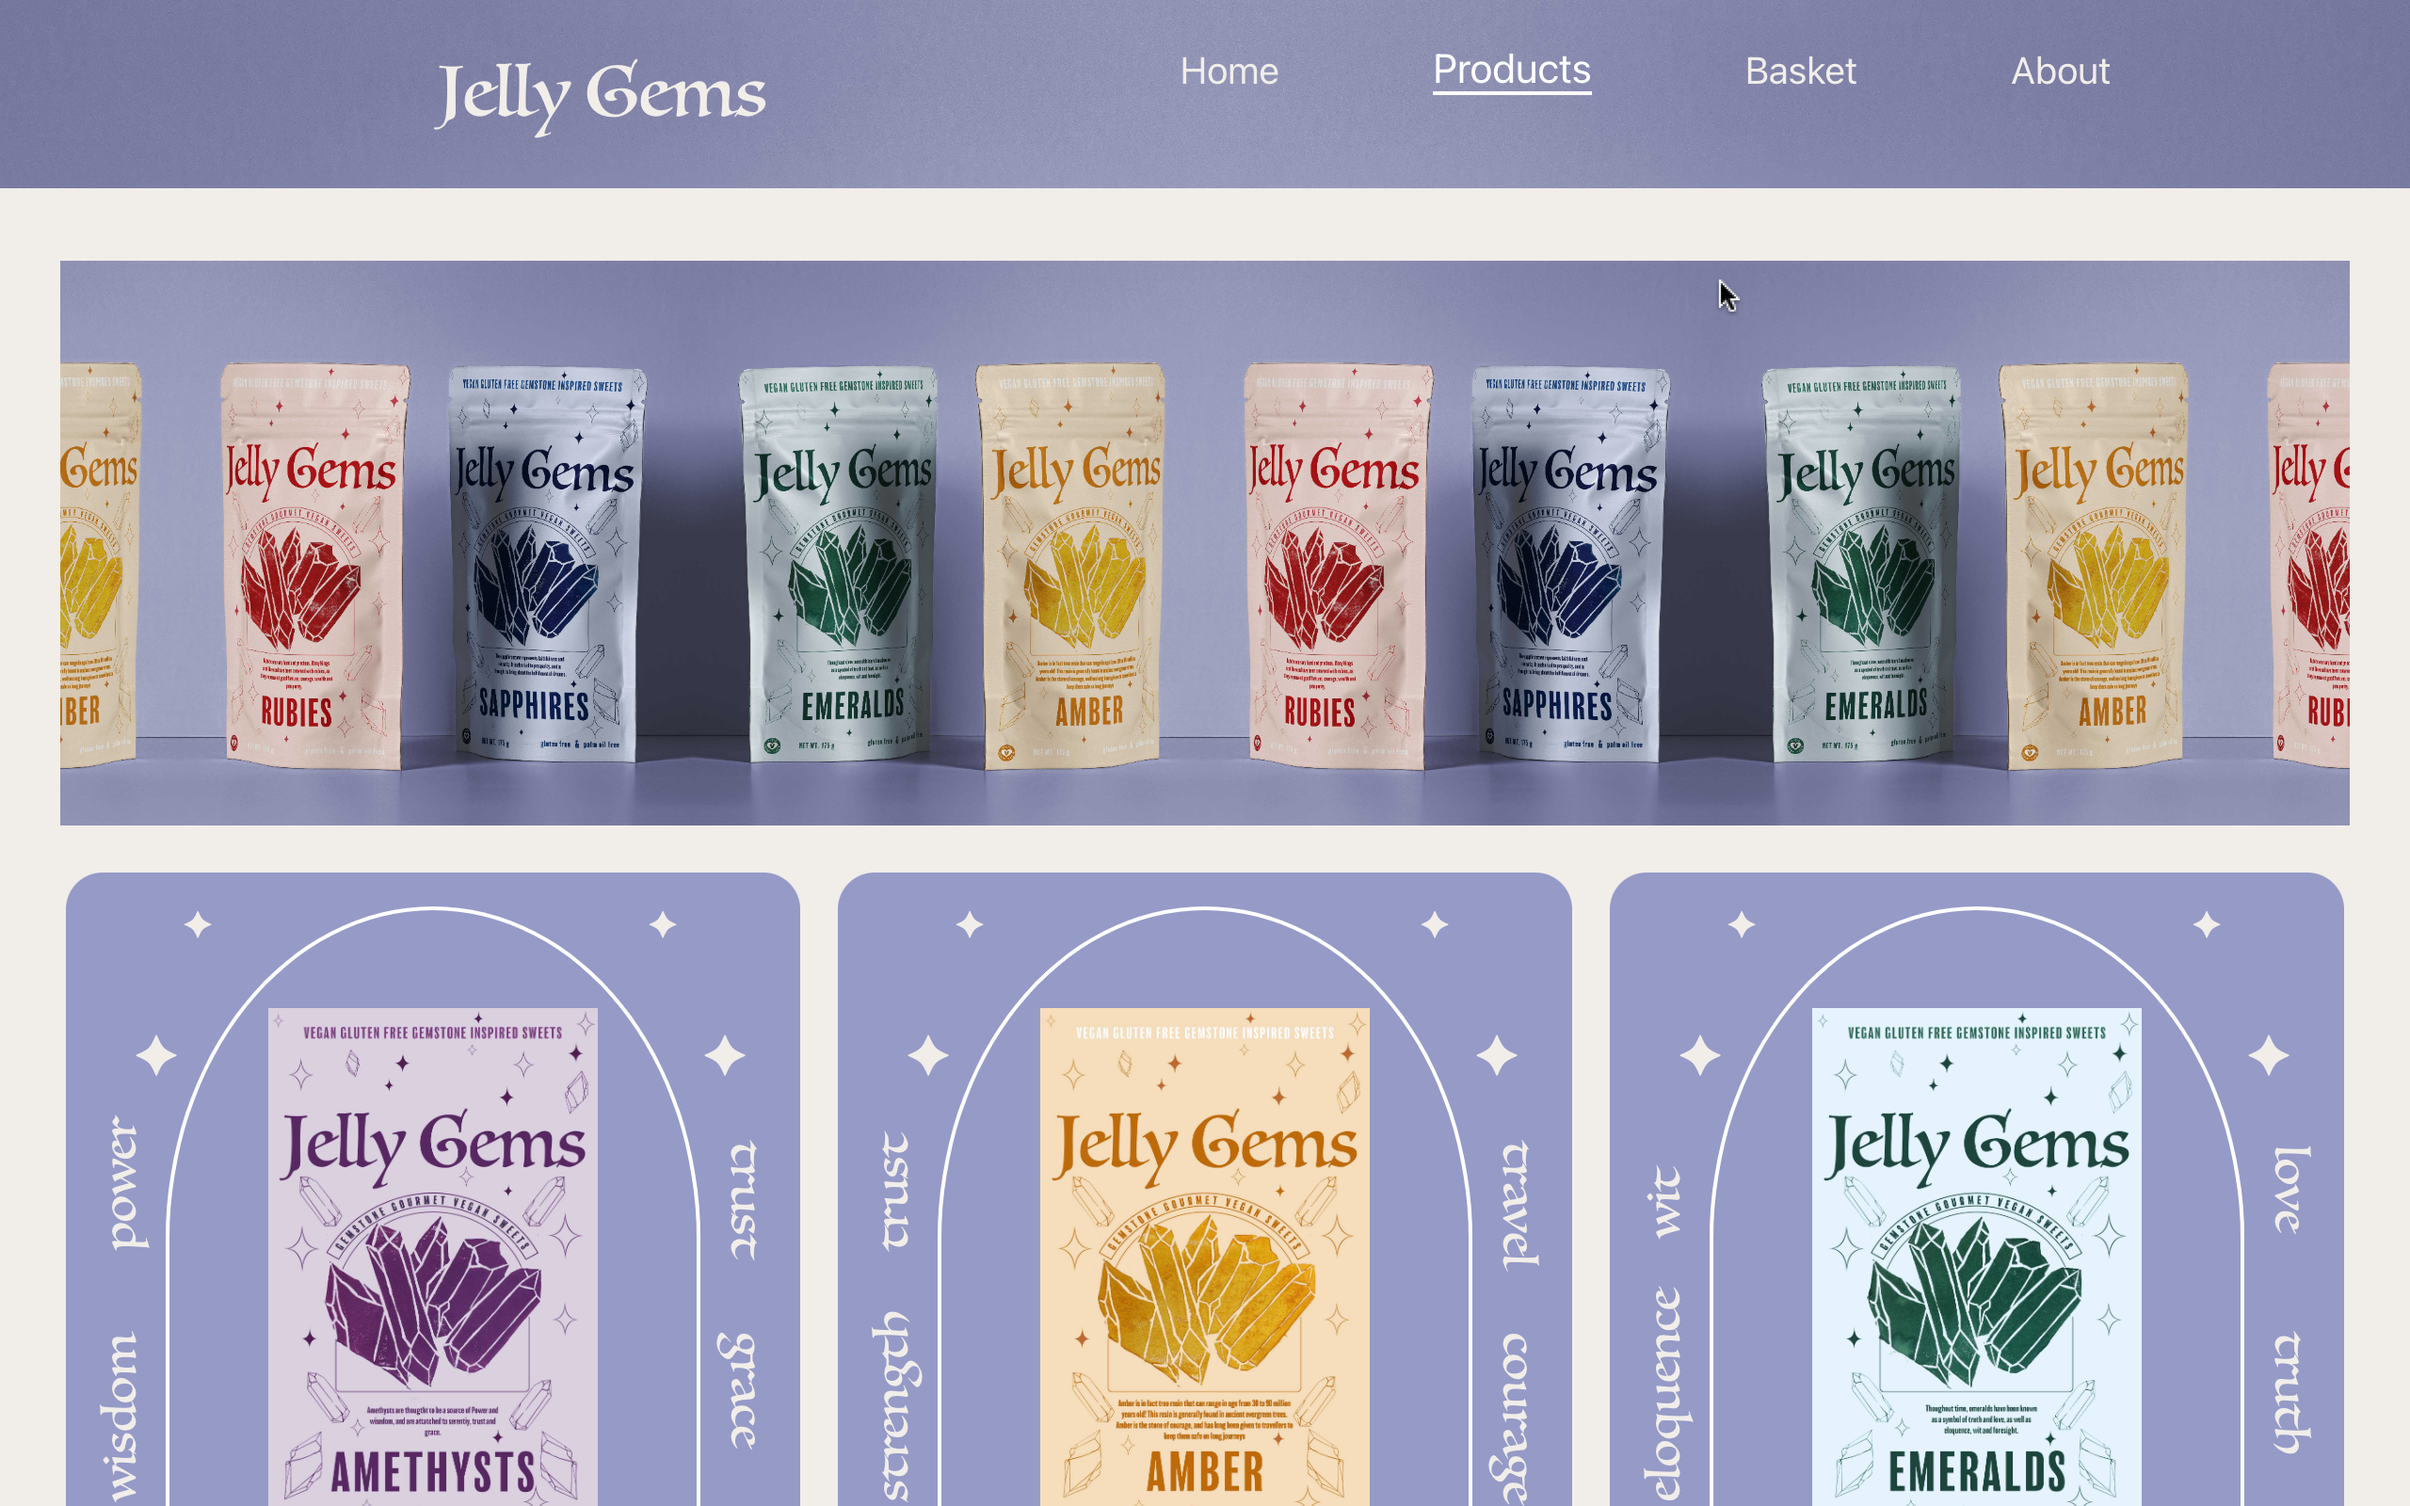
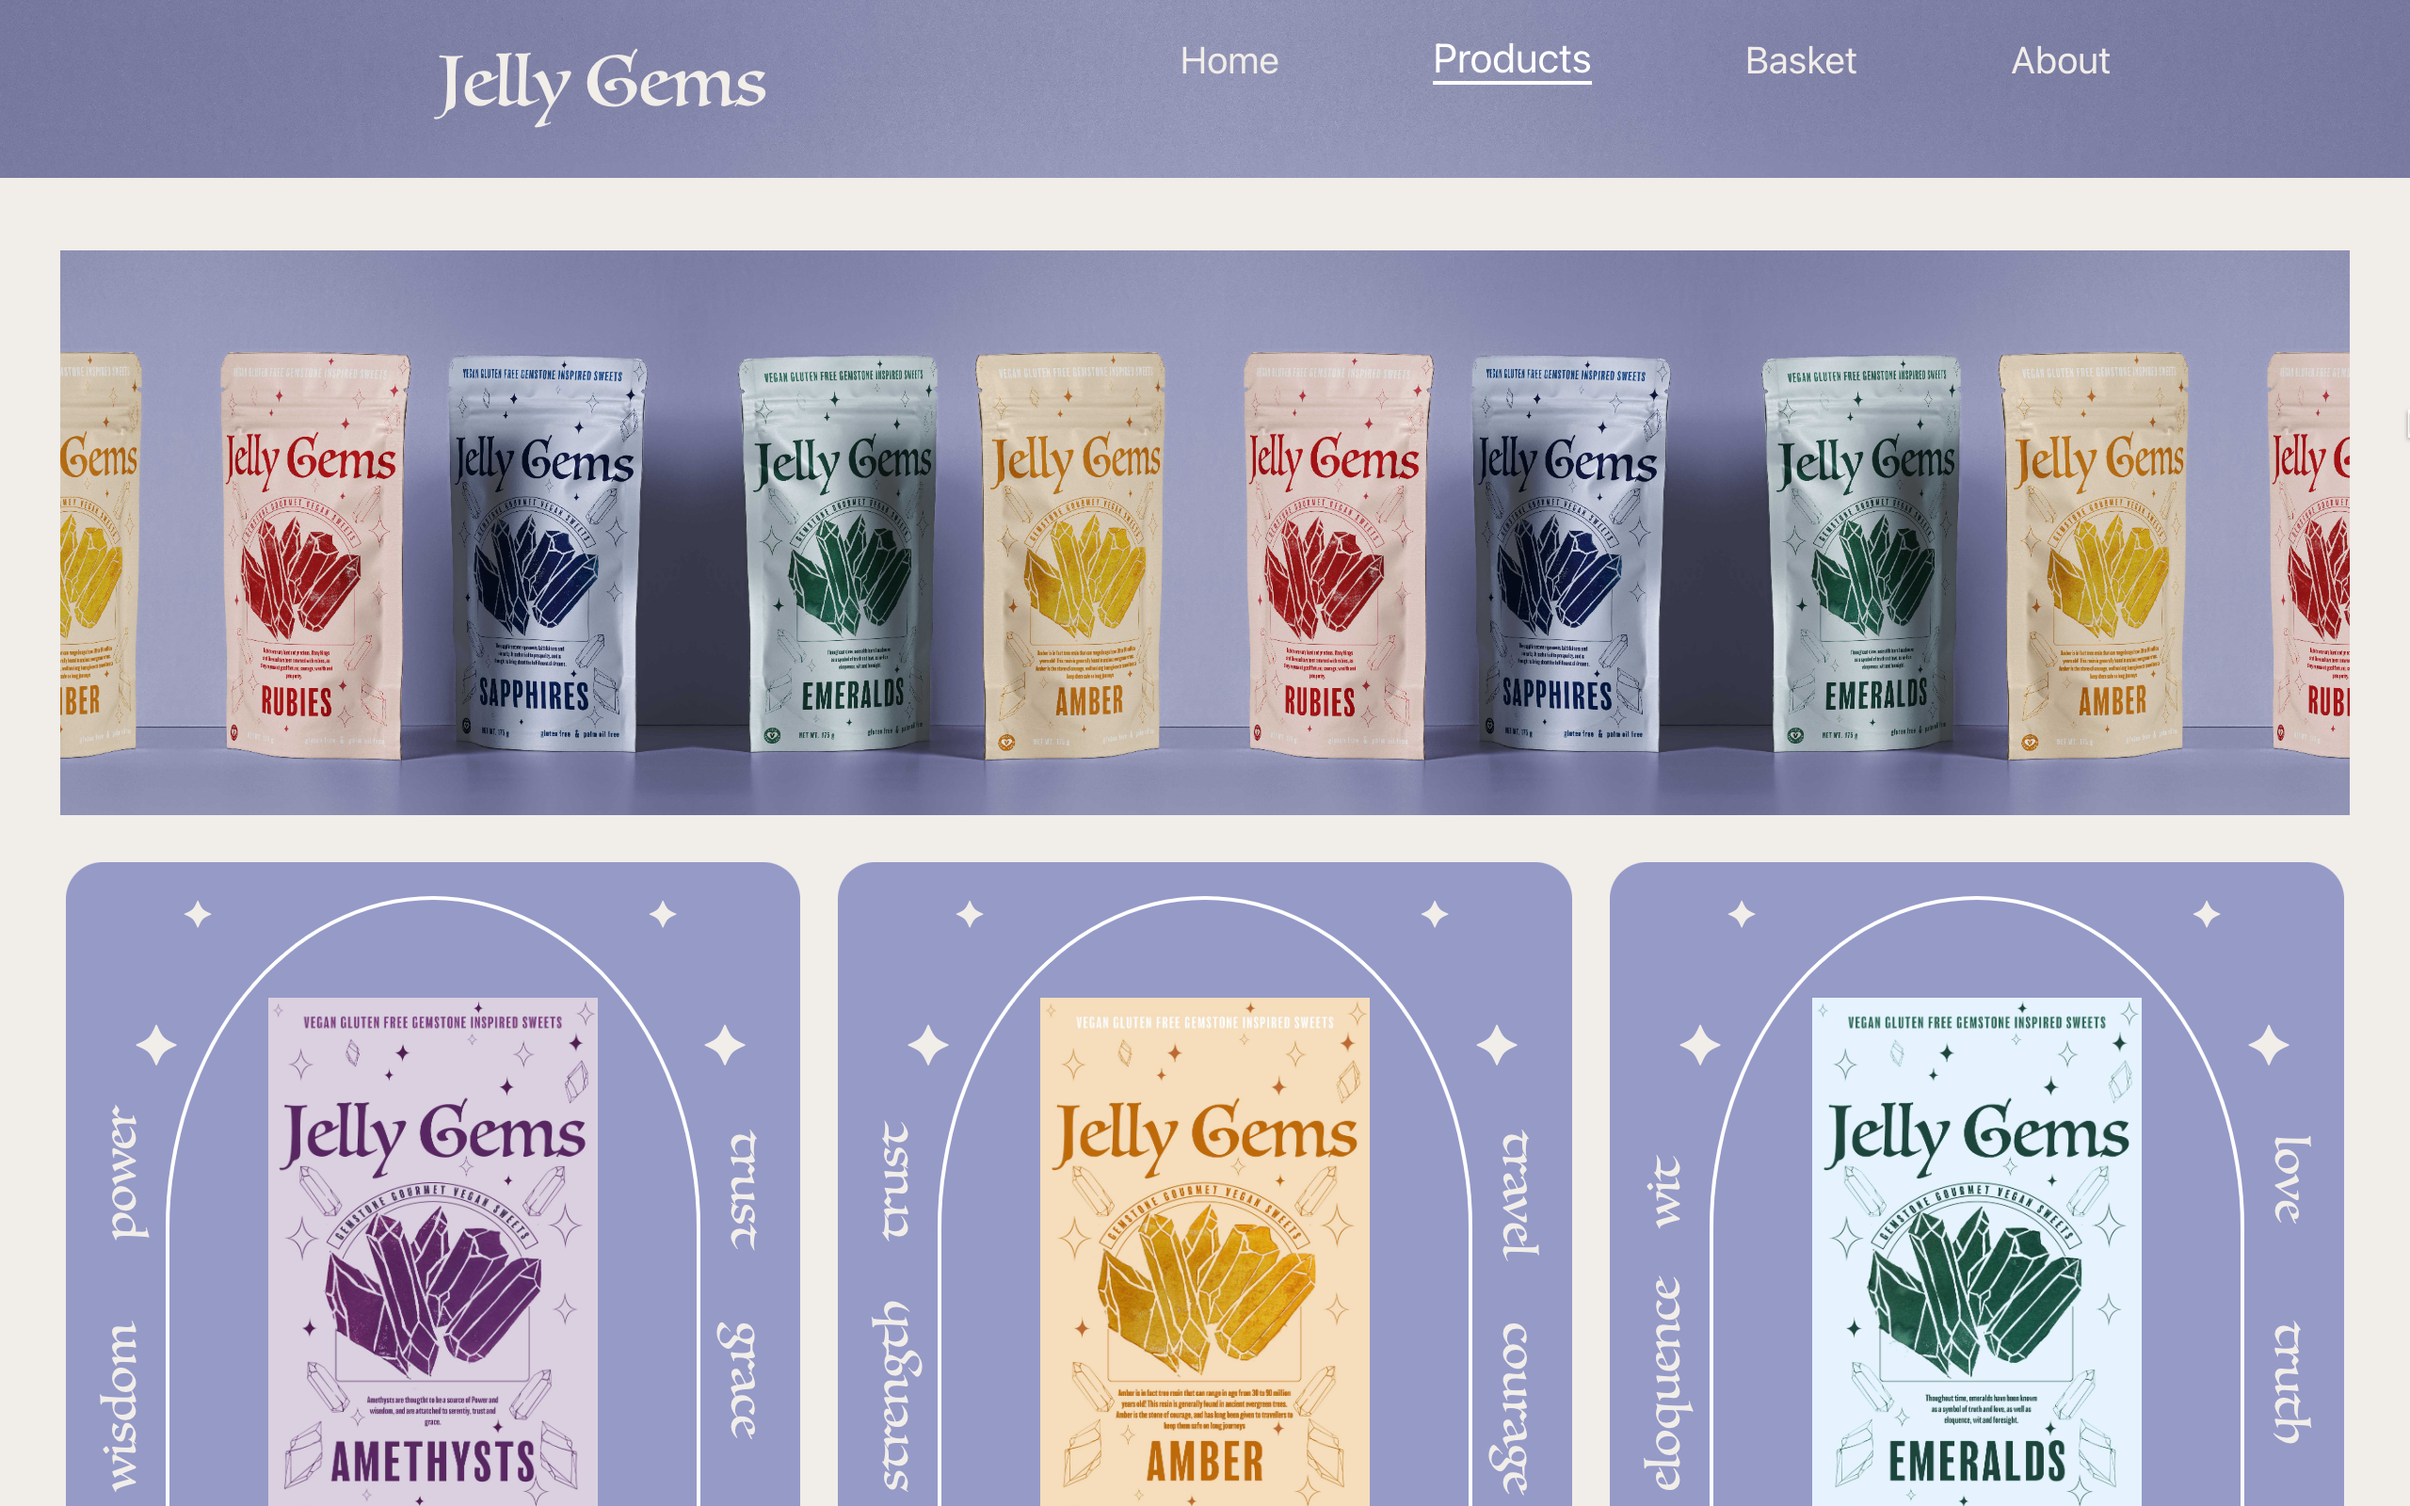
change jelly gems img and change latest work

diff --git a/index.html b/index.html
@@ -104,7 +104,7 @@
               <div class="headingTabBar">
                 <div class="tabHeadingWrapper">
                   <div class="tabHeading">
-                    HTML & CSS cheatsheet
+                    Jelly Gems
                   </div>
                 </div>
               </div>
@@ -117,7 +117,7 @@
           <div class="windowContentContainer">
             <div class="latestWorkImgWrapper">
               <img class="latestWorkImg"
-                src="./assets/projects/tessnaughtscrosses.png"
+                src="./assets/projects/jellygems.png"
                 alt="Screenshot of Tess' naughts and crosses game (she won)" />
             </div>
           </div>
